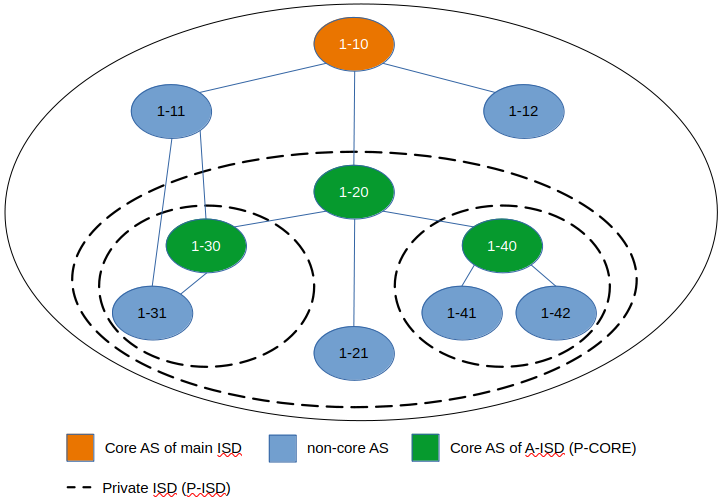
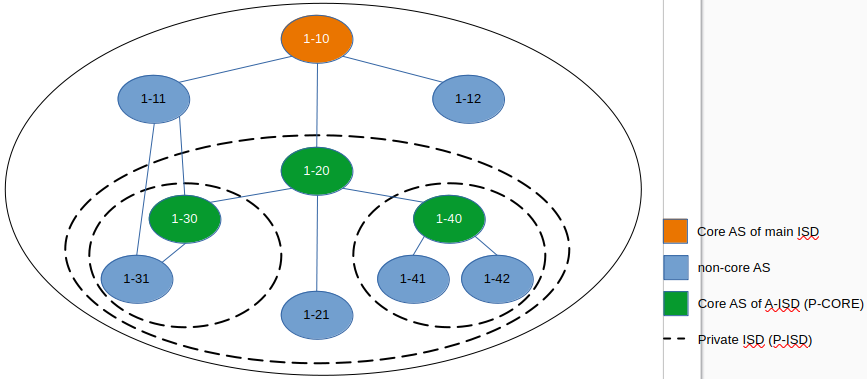
Private ISD - New

diff --git a/doc/dev/design/anonymous-ISDs.rst b/doc/dev/design/anonymous-ISDs.rst
@@ -55,8 +55,11 @@ Terminology
   beaconing but (usually) do not participate in the normal ISDs' core routing
 - BR - Border router
 - CS - Control service
-- S-AS - A secret AS. S-ASes are part of an P-ISD but not visible from
-  outside their P-ISD. S-ASes cannot have a parent AS outside the P-ISD.
+- Private AS - A Private AS is part of an P-ISD but not visible from
+  outside their P-ISD. Private-ASes cannot have a parent AS outside the P-ISD.
+  Every P-ISD must have at least one non-private (public) AS in order to
+  have a connection to the outside.
+- Private Links - A Private Link is a link that is only visible inside a P-ISD.
 
 
 Proposal
@@ -90,8 +93,8 @@ However, there are some differences:
   an external ISD number.
 
 Note: An P-ISD can contain ASes (including P-COREs) and links that are not
-visible outside of the P-ISD. These are called "secret", see discussion below.
-
+visible outside of the P-ISD. These are called "private",
+see also `Private Links and Private ASes`_.
 
 Example: Simple P-ISD
 ^^^^^^^^^^^^^^^^^^^^^
@@ -152,7 +155,6 @@ See also `Nested P-ISDs and Hierarchies`_.
 
 Enddost: Sending Traffic
 ------------------------
-
 Endhosts need to be able to know all P-ISDs that the local AS AS is part of,
 at least if it wants to use a "private" connection (i.e. inside a given P-ISD).
 
@@ -181,10 +183,9 @@ To verify incoming paths, similar to border routers, endhosts can get the
 
 Nested P-ISDs and Hierarchies
 -----------------------------
-
 P-ISDs can be nested. The current proposal is that P-ISDs must form a
 "strict" hierarchy: Every P-ISD must be fully enclosed in its parent P-ISD.
-However, private ASes (P-ASes) and private links which do not need to be visible to
+However, private ASes and private links which do not need to be visible to
 the parent P-ISD. In other words, any non-private AS that is part of an P-ISD must
 also be part of its parent P-ISDs and any parents thereof.
 
@@ -220,26 +221,26 @@ then it must restrict returned segments to those of the "lowest/innermost A-ISD"
 This is to ensure that traffic doesn't unnecessarily leave an A-ISD.
 
 
-Secret Links and Secret ASes
+Private Links and Private ASes
 ------------------------------
 P-ISD allow to hide links and ASes from the rest of the ISD.
-These are called secret links (S-Links) and secret ASes (S-AS).
+These are called "private links" and "private ASes".
 
 Hiding these is achieved by simply excluding them from any PCBs that come from
 outside the P-ISD.
-Every S-AS needs an AS number. Unfortunately, this needs to be globally unique,
+Every private AS needs an AS number. Unfortunately, this needs to be globally unique,
 so the parent ISD can see that the AS exists. However, to hide its identity,
 the AS can use the ISD code of a different ISD. There could even be a dedicated
-ISD code for private ASed.
+ISD code for private ASes.
+**TODO** What??? Why globally unique? Why should the parent ISD see that he AS exists?
 
-.. image:: fig/anonymous_isd/5-hidden-AS-and-links.png
+.. image:: fig/anonymous_isd/5-private-AS-and-links.png
 
-**TODO open question: Can we have hidden A-COREs? Why would we need that?**
 Hidden A-COREs require ASes to have multiple parents.
 Specifically, any non-hidden AS needs a non-hidden CORE that is visible from
 the outside.
 
-Is it possible yto have multiple parents?
+Is it possible to have multiple parents?
 This relates to the question if an P-ISD must have at least one P-CORE in every
 ISD. To avoid this we could simply require an ASes' CS to forward segment
 queries selectively: destination outside P-ISD -> ask parent; otherwise
@@ -270,7 +271,7 @@ Advantages
   They can probably replace current peering links.
 
 - Privacy: An A-ISD can contain any number of ASes and link that are not visible
-  outside the A-ISD (private ASes -> P-ASes).
+  outside the A-ISD (private ASes).
 - A-ISDs can be nested.
 
 - An AS can join an A-ISD without having to worry about a 2nd AS identifier.